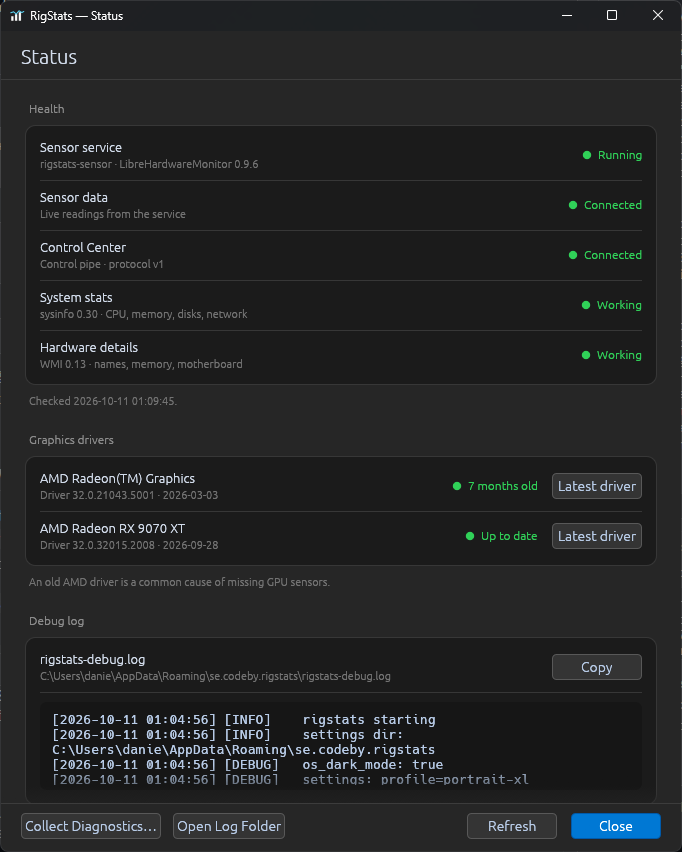
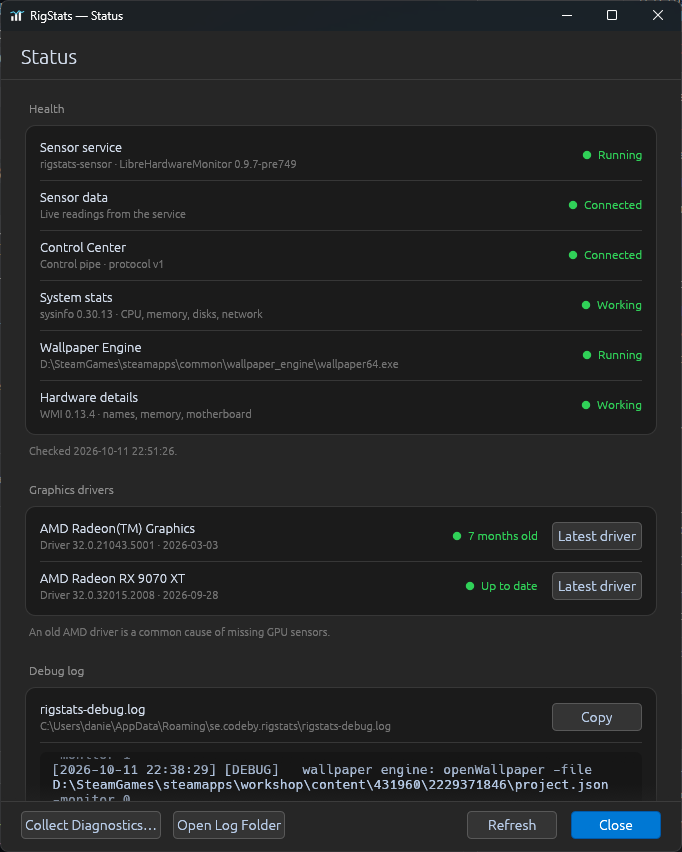
docs(website): Control Center section — each screenshot next to its text (#328)
* docs(website): Control Center section — each screenshot next to its text

The section stacked nine screenshots on the left and one long list on
the right, so text sat far from the picture it described. It is now
one row per topic (profiles, switching and app rules, the dashboard's
look, the desktop, fans, CPU, graphics card, lighting, devices and Hue):
the screenshot and its own heading, sentence and points side by side,
alternating sides, stacked image-then-text on narrow screens. Same
wording, sorted under the right picture.

Closes #327

* docs(website): Status screenshot from the installed 1.47.0

Shows the built-in LibreHardwareMonitor 0.9.7-pre749 (#313) and the new
Wallpaper Engine row; the image now has a description.

Refs #327

---------

diff --git a/website/index.html b/website/index.html
@@ -298,58 +298,140 @@
         <h2>Control Center &amp; Fan Curves</h2>
         <p>Profiles bundle your power plan and fan curves — and on supported hardware, CPU and GPU power limits and RGB lighting — together with how RIGStats itself looks: accent colour, panels, overlay and alert levels. They switch with one click from the tray. Fan curves run inside the RIGStats service, so they keep working with the app closed and come back after a reboot.</p>
       </header>
-      <div class="floating-showcase">
-        <div class="dual-shots">
-          <div class="screen-wrap screen-wrap--wide">
-            <img src="images/control-center-overview.png" alt="Control Center, Overview: the profile bar with Silent, Eco, Gaming and Balanced, a sidebar of pages, and a tile per page summarising what the profile does — dashboard look, overlay, alerts, desktop background, app rules, power plan, fans, CPU, graphics card and lighting" class="hero-img">
+      <div class="cc-rows">
+        <div class="cc-row">
+          <div class="cc-shot screen-wrap">
+            <img src="images/control-center-overview.png" alt="Control Center, Overview: the profile bar with Silent, Eco, Gaming and Balanced, a sidebar of pages, and a tile per page summarising what the profile does — dashboard look, overlay, alerts, desktop background, app rules, power plan, fans, CPU, graphics card and lighting" class="hero-img" loading="lazy">
           </div>
-          <div class="screen-wrap screen-wrap--wide">
-            <img src="images/control-center-dashboard.png" alt="Control Center, Dashboard page: the profile's accent colour as colour dots, panel opacity, and every panel with a switch and arrows to set the order" class="hero-img">
-          </div>
-          <div class="screen-wrap screen-wrap--wide">
-            <img src="images/control-center-desktop.png" alt="Control Center, Desktop page: the profile's Windows background picture, and a Wallpaper Engine group showing it running with a Stop button, the choices As it is, Wallpapers, Paused and Off, and a wallpaper with its preview for each of three screens" class="hero-img">
-          </div>
-          <div class="screen-wrap screen-wrap--wide">
-            <img src="images/control-center-fans.png" alt="Control Center, Fans page: Automatic (BIOS) or Custom curve for a fan header, the temperature it follows, Silent/Balanced/Performance starting points, a curve editor with draggable points, and fans sharing the same curve" class="hero-img">
-          </div>
-          <div class="screen-wrap screen-wrap--wide">
-            <img src="images/control-center-cpu.png" alt="Control Center, CPU page: BIOS, 105 W Eco and 65 W Eco presets, package power, sustained and peak current sliders with the values in force, and a Curve Optimizer group with an all-core offset, per-core option and a risk notice" class="hero-img">
-          </div>
-          <div class="screen-wrap screen-wrap--wide">
-            <img src="images/control-center-gpu.png" alt="Control Center, Graphics card page: the AMD Radeon RX 9070 XT power limit slider with the value in force" class="hero-img">
-          </div>
-          <div class="screen-wrap screen-wrap--wide">
-            <img src="images/control-center-lighting.png" alt="Control Center, Lighting page: Unchanged/Off/Static/Breathing/Colour cycle effect buttons, colour dots, brightness, the desk lamp's on/off, brightness and colour temperature, and the list of lighting devices" class="hero-img">
-          </div>
-          <div class="screen-wrap screen-wrap--wide">
-            <img src="images/control-center-lighting-devices.png" alt="Control Center, Lighting page, devices: monitors, the ROG Azoth X keyboard, ROG Delta II headset and ROG Harpe Ace mouse with their 2.4 GHz connection and battery level, a Hue room, and the paired Philips Hue Bridge with a switch per room" class="hero-img">
-          </div>
-          <div class="screen-wrap">
-            <img src="images/tray-menue-profile.png" alt="Tray menu with the Profile submenu open, listing Silent, Gaming, Eco and Balanced with a check on the active profile" class="hero-img">
+          <div class="cc-text">
+            <h3>Profiles</h3>
+            <p>A profile bundles everything at once: power plan, fans, limits, lighting, the desktop and how RIGStats looks.</p>
+            <ul class="floating-features">
+              <li><strong>Silent, Balanced, Gaming, Eco</strong> — and your own: duplicate, rename and delete them</li>
+              <li><strong>Overview</strong> shows everything a profile does at a glance; each tile opens its page</li>
+              <li>Choose the Windows power plan each profile switches to</li>
+            </ul>
           </div>
         </div>
-        <ul class="floating-features">
-          <li><strong>Silent, Balanced, Gaming, Eco</strong> — switch from the tray, the header chip, or <strong>Ctrl+Alt+P</strong></li>
-          <li><strong>App rules</strong> switch profile by themselves while a program runs — Gaming while your game is open, back when it closes; optionally only while it is in front</li>
-          <li><strong>Overview</strong> shows everything a profile does at a glance; each tile opens its page</li>
-          <li>Each profile has its own <strong>dashboard look</strong> — accent colour, opacity, which panels and in what order, the overlay and its metrics, alert levels, even the desktop background, one picture per screen if you like, or Wallpaper Engine wallpapers per screen — paused while you game, or off in a profile of its own — previewed live as you change it</li>
-          <li>Duplicate, rename and delete your own profiles; choose the Windows power plan each profile switches to</li>
-          <li>Per-fan curves with draggable points, following CPU, GPU or a motherboard temperature</li>
-          <li><strong>Same curve on</strong> runs several fans on one curve</li>
-          <li><strong>Identify</strong> spins a fan channel and measures which fans respond — channel and fan numbers don't always match</li>
-          <li>Click a fan in the Motherboard panel to open its curve</li>
-          <li>Safety in the service: CPU above 95 °C or GPU above 90 °C sends every controlled fan to 100 %, and a lost temperature sensor does the same for its fan</li>
-          <li>Stopping the service hands every fan back to the BIOS</li>
-          <li>Shown only when your motherboard exposes writable fan control</li>
-          <li><strong>CPU power limits</strong> (AMD Ryzen 9000): lower PPT, TDC and EDC per profile, with 105 W and 65 W Eco presets — never above what the BIOS set</li>
-          <li>New limits are tried for 15 seconds and revert by themselves unless you click <strong>Keep</strong>; if the PC goes down right after a change, the limits aren't re-applied at the next start</li>
-          <li>The CPU panel shows the active limit, e.g. <strong>PPT 88 W</strong></li>
-          <li><strong>Curve Optimizer</strong> (Ryzen 9000): undervolt all cores or each core, −30 to 0 — and if the PC goes down right after a change, it is reverted at the next start</li>
-          <li><strong>GPU power limit</strong> (AMD Radeon, desktop NVIDIA GeForce): the same setting as Adrenalin's or Afterburner's Power Limit, over the driver's own range — and back to the driver default when you return to the original</li>
-          <li>The GPU panel shows the active limit, e.g. <strong>PL -15 %</strong></li>
-          <li><strong>Lighting with Aura Sync</strong>: off, static, breathing or spectrum cycle per profile, with colour (or one-click quick-pick colours) and brightness and a live preview — on ASUS Aura motherboards, ROG monitors and the Aura Monitor Light Bar, ROG keyboards and headsets, and any Windows Dynamic Lighting keyboard or mouse (<a href="#supported-devices">full list below</a>) — no Armoury Crate needed. Philips Hue rooms and zones you choose follow along through the Hue Bridge on your local network — no OpenRGB, no Hue account. Devices plugged in or switched between cable and dongle are picked up while RIGStats runs</li>
-          <li><strong>Desk lamp</strong>: the Aura Monitor Light Bar's white lamp gets its own on/off, brightness and colour temperature (2700–6500 K) per profile, independent of the RGB</li>
-        </ul>
+
+        <div class="cc-row">
+          <div class="cc-shot screen-wrap cc-shot--narrow">
+            <img src="images/tray-menue-profile.png" alt="Tray menu with the Profile submenu open, listing Silent, Gaming, Eco and Balanced with a check on the active profile" class="hero-img" loading="lazy">
+          </div>
+          <div class="cc-text">
+            <h3>Switch in one click — or let your apps do it</h3>
+            <p>From the tray, the dashboard's header chip, or <strong>Ctrl+Alt+P</strong>.</p>
+            <ul class="floating-features">
+              <li><strong>App rules</strong> switch profile by themselves while a program runs — Gaming while your game is open, back when it closes; optionally only while it is in front</li>
+              <li>A profile you pick by hand wins over the programs already running</li>
+            </ul>
+          </div>
+        </div>
+
+        <div class="cc-row">
+          <div class="cc-shot screen-wrap">
+            <img src="images/control-center-dashboard.png" alt="Control Center, Dashboard page: the profile's accent colour as colour dots, panel opacity, and every panel with a switch and arrows to set the order" class="hero-img" loading="lazy">
+          </div>
+          <div class="cc-text">
+            <h3>How RIGStats looks</h3>
+            <p>Each profile has its own dashboard look, previewed live as you change it.</p>
+            <ul class="floating-features">
+              <li>Accent colour, opacity, and which panels show in what order</li>
+              <li>The game overlay and its metrics</li>
+              <li>Alert levels — Gaming can run hotter before it warns</li>
+            </ul>
+          </div>
+        </div>
+
+        <div class="cc-row">
+          <div class="cc-shot screen-wrap">
+            <img src="images/control-center-desktop.png" alt="Control Center, Desktop page: the profile's Windows background picture, and a Wallpaper Engine group showing it running with a Stop button, the choices As it is, Wallpapers, Paused and Off, and a wallpaper with its preview for each of three screens" class="hero-img" loading="lazy">
+          </div>
+          <div class="cc-text">
+            <h3>Your desktop, per profile</h3>
+            <p>A calm picture for Silent, a live wallpaper for Balanced — and nothing running in the background while you game.</p>
+            <ul class="floating-features">
+              <li><strong>Desktop background</strong> per profile — one picture, or one per screen, with previews</li>
+              <li><strong>Wallpaper Engine</strong> per profile: chosen wallpapers per screen, <strong>paused</strong> while you game, or <strong>off</strong> in a profile of its own — with Start and Stop right there</li>
+            </ul>
+          </div>
+        </div>
+
+        <div class="cc-row">
+          <div class="cc-shot screen-wrap">
+            <img src="images/control-center-fans.png" alt="Control Center, Fans page: Automatic (BIOS) or Custom curve for a fan header, the temperature it follows, Silent/Balanced/Performance starting points, a curve editor with draggable points, and fans sharing the same curve" class="hero-img" loading="lazy">
+          </div>
+          <div class="cc-text">
+            <h3>Fan curves</h3>
+            <p>Shown when your motherboard exposes writable fan control. Curves run inside the RIGStats service, so they keep working with the app closed.</p>
+            <ul class="floating-features">
+              <li>Per-fan curves with draggable points, following CPU, GPU or a motherboard temperature</li>
+              <li><strong>Same curve on</strong> runs several fans on one curve</li>
+              <li><strong>Identify</strong> spins a fan channel and measures which fans respond — channel and fan numbers don't always match</li>
+              <li>Click a fan in the Motherboard panel to open its curve</li>
+              <li>Safety in the service: CPU above 95 °C or GPU above 90 °C sends every controlled fan to 100 %, and a lost temperature sensor does the same for its fan; stopping the service hands every fan back to the BIOS</li>
+            </ul>
+          </div>
+        </div>
+
+        <div class="cc-row">
+          <div class="cc-shot screen-wrap">
+            <img src="images/control-center-cpu.png" alt="Control Center, CPU page: BIOS, 105 W Eco and 65 W Eco presets, package power, sustained and peak current sliders with the values in force, and a Curve Optimizer group with an all-core offset, per-core option and a risk notice" class="hero-img" loading="lazy">
+          </div>
+          <div class="cc-text">
+            <h3>CPU power limits</h3>
+            <p>AMD Ryzen 9000 — never above what the BIOS set.</p>
+            <ul class="floating-features">
+              <li>Lower PPT, TDC and EDC per profile, with 105 W and 65 W Eco presets</li>
+              <li>New limits are tried for 15 seconds and revert by themselves unless you click <strong>Keep</strong>; if the PC goes down right after a change, they aren't re-applied at the next start</li>
+              <li><strong>Curve Optimizer</strong>: undervolt all cores or each core, −30 to 0 — reverted at the next start if the PC goes down right after a change</li>
+              <li>The CPU panel shows the active limit, e.g. <strong>PPT 88 W</strong></li>
+            </ul>
+          </div>
+        </div>
+
+        <div class="cc-row">
+          <div class="cc-shot screen-wrap">
+            <img src="images/control-center-gpu.png" alt="Control Center, Graphics card page: the AMD Radeon RX 9070 XT power limit slider with the value in force" class="hero-img" loading="lazy">
+          </div>
+          <div class="cc-text">
+            <h3>Graphics card power limit</h3>
+            <p>AMD Radeon and desktop NVIDIA GeForce.</p>
+            <ul class="floating-features">
+              <li>The same setting as Adrenalin's or Afterburner's Power Limit, over the driver's own range — and back to the driver default when you return to the original</li>
+              <li>The GPU panel shows the active limit, e.g. <strong>PL -15 %</strong></li>
+            </ul>
+          </div>
+        </div>
+
+        <div class="cc-row">
+          <div class="cc-shot screen-wrap">
+            <img src="images/control-center-lighting.png" alt="Control Center, Lighting page: Unchanged/Off/Static/Breathing/Colour cycle effect buttons, colour dots, brightness, the desk lamp's on/off, brightness and colour temperature, and the list of lighting devices" class="hero-img" loading="lazy">
+          </div>
+          <div class="cc-text">
+            <h3>Lighting with Aura Sync</h3>
+            <p>No Armoury Crate needed.</p>
+            <ul class="floating-features">
+              <li>Off, static, breathing or spectrum cycle per profile, with colour (or one-click quick-pick colours) and brightness and a live preview</li>
+              <li><strong>Desk lamp</strong>: the Aura Monitor Light Bar's white lamp gets its own on/off, brightness and colour temperature (2700–6500 K) per profile, independent of the RGB</li>
+            </ul>
+          </div>
+        </div>
+
+        <div class="cc-row">
+          <div class="cc-shot screen-wrap">
+            <img src="images/control-center-lighting-devices.png" alt="Control Center, Lighting page, devices: monitors, the ROG Azoth X keyboard, ROG Delta II headset and ROG Harpe Ace mouse with their 2.4 GHz connection and battery level, a Hue room, and the paired Philips Hue Bridge with a switch per room" class="hero-img" loading="lazy">
+          </div>
+          <div class="cc-text">
+            <h3>Your devices — and Philips Hue</h3>
+            <p>ASUS Aura motherboards, ROG monitors and the Aura Monitor Light Bar, ROG keyboards and headsets, and any Windows Dynamic Lighting keyboard or mouse — <a href="#supported-devices">full list below</a>.</p>
+            <ul class="floating-features">
+              <li>Philips Hue rooms and zones you choose follow along through the Hue Bridge on your local network — no OpenRGB, no Hue account</li>
+              <li>Wireless devices show their connection and battery</li>
+              <li>Devices plugged in or switched between cable and dongle are picked up while RIGStats runs</li>
+            </ul>
+          </div>
+        </div>
       </div>
 
       <div class="supported-devices" id="supported-devices">
@@ -715,7 +797,7 @@
 
         <article class="dialog-card">
           <div class="dialog-img-wrap">
-            <img src="images/status-dialog.png" alt="Status dialog screenshot" class="dialog-img">
+            <img src="images/status-dialog.png" alt="Status window: Health rows for the sensor service (LibreHardwareMonitor 0.9.7-pre749), sensor data, Control Center, system stats, Wallpaper Engine and hardware details, all green; graphics drivers with their age and a Latest driver button; and the debug log" class="dialog-img">
           </div>
           <div class="dialog-body">
             <h3>Status</h3>

diff --git a/website/style.css b/website/style.css
@@ -891,6 +891,62 @@ code {
   }
 }
 
+/* ── Control Center: one row per topic, picture and its text side by side,
+      alternating sides (stacked on narrow screens). ────────── */
+.cc-rows {
+  display: flex;
+  flex-direction: column;
+  gap: 72px;
+  margin-top: 56px;
+}
+
+.cc-row {
+  display: grid;
+  grid-template-columns: minmax(0, 1.2fr) minmax(0, 1fr);
+  gap: 48px;
+  align-items: center;
+}
+
+.cc-row:nth-child(even) {
+  grid-template-columns: minmax(0, 1fr) minmax(0, 1.2fr);
+}
+
+.cc-row:nth-child(even) .cc-shot {
+  order: 2;
+}
+
+.cc-shot .hero-img {
+  width: 100%;
+  max-height: none;
+}
+
+.cc-shot--narrow {
+  justify-self: center;
+  max-width: 320px;
+}
+
+.cc-text h3 {
+  font-size: 1.3rem;
+  margin-bottom: 8px;
+  color: var(--text);
+}
+
+.cc-text p {
+  color: var(--text-muted);
+  line-height: 1.6;
+  margin-bottom: 16px;
+}
+
+@media (max-width: 860px) {
+  .cc-rows { gap: 48px; }
+  .cc-row,
+  .cc-row:nth-child(even) {
+    grid-template-columns: 1fr;
+    gap: 20px;
+  }
+  .cc-row:nth-child(even) .cc-shot { order: 0; }
+}
+
 /* ── Wallpaper mode shot ───────────────────────────────────── */
 .wallpaper-shot {
   max-width: 420px;
